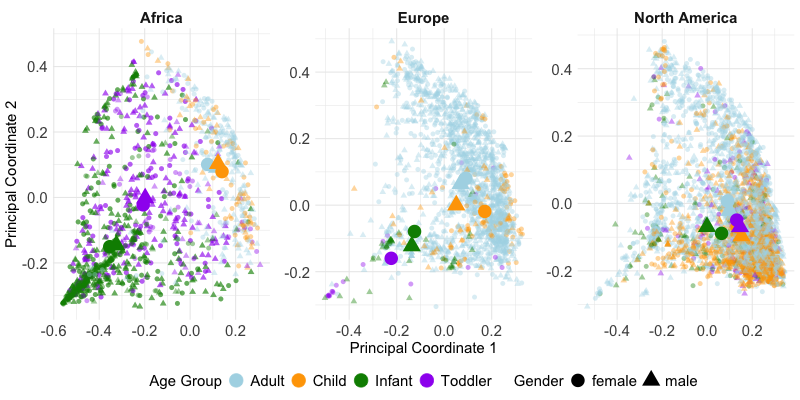
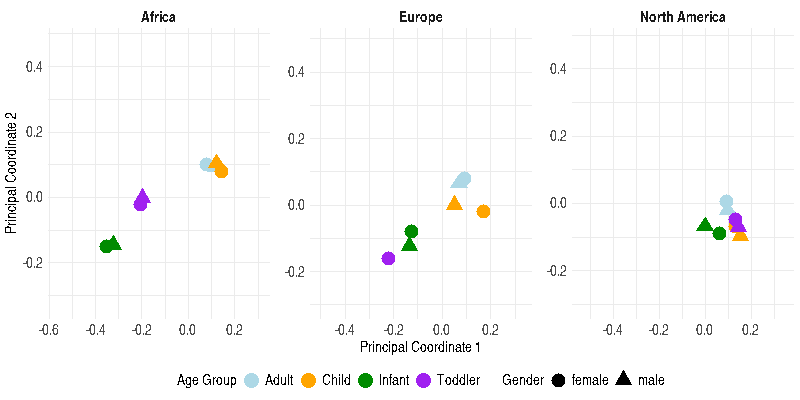
Fig2 finalized

diff --git a/README.md b/README.md
@@ -6,6 +6,7 @@ The following table summarizes the scripts in this repository for the main and S
 |---------------------------------------------|-----------------------------------------------------|
 
 | `R-SCRIPTS/Figure1_Data_Summary.R`          | Main Figure 1 (Data summaries)       |
+| `R-SCRIPTS/Fig2_PCoA.R`                     | Main Figure 2 (PCoA panel)       |
 | `R-SCRIPTS/Figure_income_women_violinplot.R`| Supplementary Figure 1 (Violin plot by income for women)       |
 | `R-SCRIPTS/Figure_age_arg_lmic.R`           | Supplementary Figure 2 (ARG load by age in LMICs)    |
 | `R-SCRIPTS/Figure_age_shannon_hic.R`        | Supplementary Figure 3 (Shannon diversity by age in HICs) |
